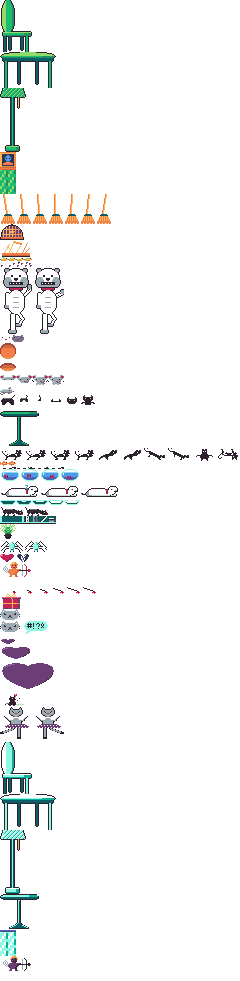
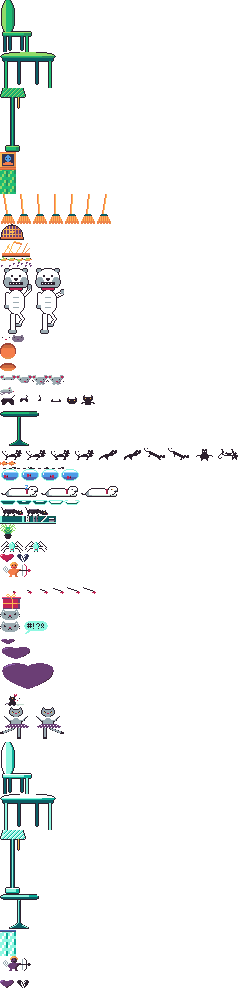
feat(rooms): keep the hearts' shading at the kiss

diff --git a/internal/rooms/draw_heart.go b/internal/rooms/draw_heart.go
@@ -152,14 +152,14 @@ func (r *Renderer) DrawHeartKiss(dst *ebiten.Image, h *HeartRoom) {
 		}
 	}
 	dst.DrawImage(r.kiss, nil)
-	heart := r.sheet.Sprite("heart")
+	heart := r.sheet.Sprite("heart_kiss")
 	for row, line := range config.HeartRows {
 		for col := range config.HeartCols {
-			frame, ink := 0, s.Shade
+			frame := 0
 			if h.Broken[row][col] {
-				frame, ink = 1, s.Gap
+				frame = 1
 			}
-			drawTinted(dst, heart.Frame(frame), config.HeartX+col*config.HeartW, line+config.HeartDrawDY, false, ink)
+			entity.DrawAt(dst, heart.Frame(frame), config.HeartX+col*config.HeartW, line+config.HeartDrawDY, false)
 		}
 	}
 	gift := r.sheet.Sprite("gift").Frame(0)

diff --git a/internal/gfx/scheme.go b/internal/gfx/scheme.go
@@ -146,11 +146,10 @@ var HeartScheme = Scheme{
 }
 
 // KissScheme is the heart room at the kiss: the cyan/magenta set, with
-// teal ground, plum hearts and silver cats (DESIGN §3.5, "The kiss").
+// teal ground, plum hearts and silver cats (DESIGN §3.5, "The kiss"). The
+// hearts are their own recolour, heart_kiss, so they keep their shading.
 var KissScheme = Scheme{
 	Wall:    resurrect64.DeepTeal,
-	Shade:   resurrect64.Grape, // intact hearts
-	Gap:     resurrect64.Ink,   // broken hearts
-	Metal:   resurrect64.Fog,   // the rivals
+	Metal:   resurrect64.Fog, // the rivals
 	Outline: resurrect64.Ink,
 }
